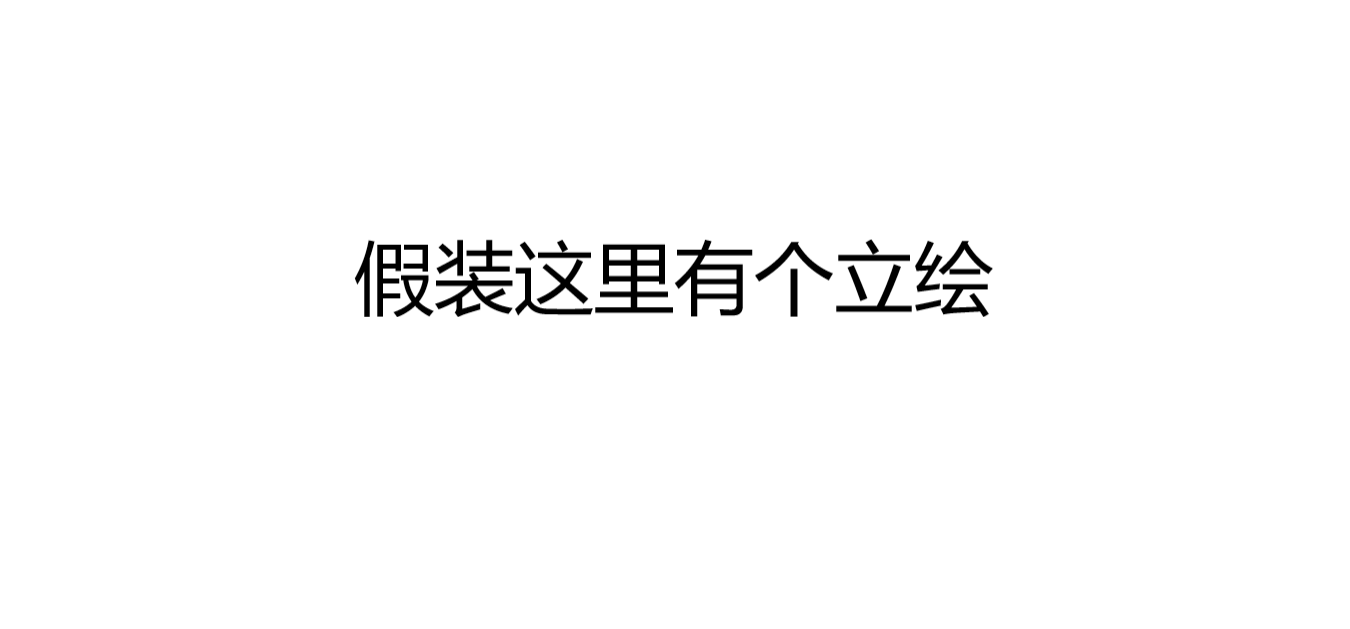
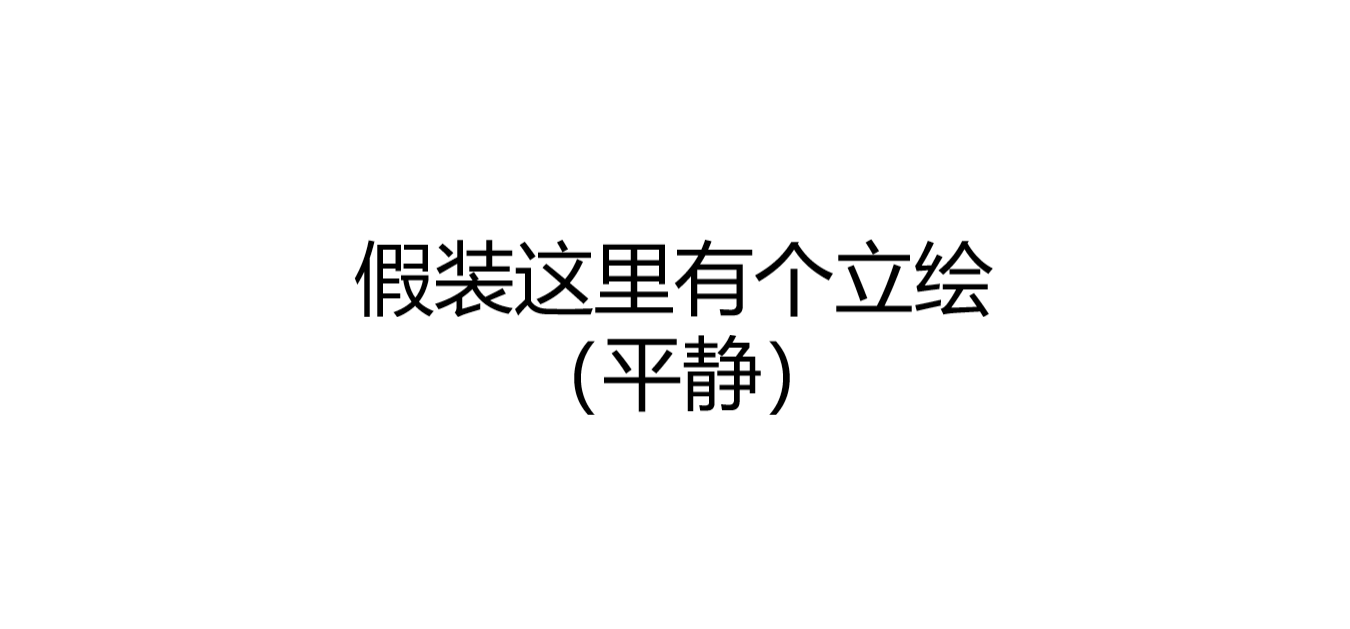
feat: 多表情

Changed region(s): [[0.4044, 0.5135, 0.5911, 0.6645]]

diff --git a/static/js/main.js b/static/js/main.js
@@ -242,15 +242,6 @@ async function sendMessage() {
                 addToHistory('assistant', remainingContent, characterName);
             }
 
-            // **获取提取的【】内容并处理**
-            const extractedContents = streamProcessor.getExtractedBracketContents();
-            if (extractedContents.length > 0) {
-                console.log('提取的【】内容:', extractedContents); // **这里可以看到提取的内容**
-                // 在这里可以对提取的内容进行进一步处理
-                // 例如：解析心情状态、系统指令等
-                handleExtractedBracketContents(extractedContents);
-            }
-
             // 隐藏继续提示
             hideContinuePrompt();
 
@@ -259,12 +250,18 @@ async function sendMessage() {
 
             // 重置暂停状态
             isPaused = false;
-            
+
             // 显示选项按钮（如果有的话）
             if (window.pendingOptions && window.pendingOptions.length > 0) {
                 showOptionButtons(window.pendingOptions);
                 window.pendingOptions = null; // 清空待处理的选项
             }
+        },
+        // 【】内容实时处理回调 - 检测到完整【】时立即并行调用
+        (bracketContent) => {
+            console.log('实时检测到【】内容:', bracketContent);
+            // 立即并行处理【】内容，不等待输出完成
+            handleExtractedBracketContents([bracketContent]);
         }
     );
 
@@ -276,7 +273,7 @@ async function sendMessage() {
 
     // 隐藏选项按钮
     hideOptionButtons();
-    
+
     // 清空输入框
     messageInput.value = '';
 
@@ -344,7 +341,7 @@ async function sendMessage() {
                                 // 将数据添加到流式处理器
                                 streamProcessor.addData(data.content);
                             }
-                            
+
                             // 处理选项数据
                             if (data.options) {
                                 // 存储选项数据，等待输出完成后显示
@@ -865,7 +862,7 @@ function updateCharacterImage() {
     if (currentCharacter && characterImage) {
         // 加载角色的所有图片
         loadCharacterImages(currentCharacter.id);
-        
+
         // 根据CALIB值调整位置
         if (characterContainer && typeof currentCharacter.calib !== 'undefined') {
             // 基准值为50%，根据CALIB值进行调整
@@ -1043,7 +1040,7 @@ async function selectCharacter(characterId) {
             updateCurrentMessage('assistant', currentCharacter.welcome);
 
         }
-        
+
         // 隐藏选项按钮
         hideOptionButtons();
 
@@ -1395,7 +1392,7 @@ let currentScreenClickHandler = null;
 function showOptionButtons(options) {
     // 清空现有选项
     optionButtons.innerHTML = '';
-    
+
     // 创建选项按钮
     options.forEach((option, index) => {
         const button = document.createElement('button');
@@ -1406,7 +1403,7 @@ function showOptionButtons(options) {
         });
         optionButtons.appendChild(button);
     });
-    
+
     // 显示选项容器
     optionButtonsContainer.classList.add('show');
 }
@@ -1421,10 +1418,10 @@ function hideOptionButtons() {
 function selectOption(option) {
     // 隐藏选项按钮
     hideOptionButtons();
-    
+
     // 将选项内容设置到输入框
     messageInput.value = option;
-    
+
     // 自动发送消息
     sendMessage();
 }
@@ -1434,11 +1431,11 @@ function selectOption(option) {
 // function handleExtractedBracketContents(contents) {
 //     // 这里是处理提取内容的地方，你可以在这里添加自定义逻辑
 //     console.log('处理提取的【】内容:', contents);
-    
+
 //     // 示例：解析心情状态
 //     contents.forEach((content, index) => {
 //         console.log(`第${index + 1}个【】内容:`, content);
-        
+
 //         // 如果内容是数字，可能是心情状态
 //         if (/^\d+$/.test(content.trim())) {
 //             const moodNumber = parseInt(content.trim());
@@ -1449,7 +1446,7 @@ function selectOption(option) {
 //             }
 //         }
 //     });
-    
+
 //     // 你可以在这里添加更多的处理逻辑
 //     // 例如：存储到全局变量、发送到服务器、更新UI等
 // }
@@ -1473,7 +1470,7 @@ function hideContinuePrompt() {
 
 
 function registrationShortcuts(config) {
-    document.addEventListener('keydown', e => { 
+    document.addEventListener('keydown', e => {
         if (e.key in config) {
             // For single-letter keys, require Alt to be pressed
             if (e.key.length === 1) {
@@ -1499,13 +1496,16 @@ registrationShortcuts({
 
 // 处理提取的【】内容
 function handleExtractedBracketContents(extractedContents) {
+    // 确保 extractedContents 是数组
+    const contents = Array.isArray(extractedContents) ? extractedContents : [extractedContents];
+
     // 处理每个提取的内容
-    for (const content of extractedContents) {
+    for (const content of contents) {
         console.log('处理【】内容:', content);
-        
+
         // 尝试解析为数字
         const imageNumber = parseInt(content.trim());
-        
+
         if (!isNaN(imageNumber) && imageNumber > 0) {
             // 如果是有效数字，切换到对应图片
             switchCharacterImage(imageNumber);
@@ -1523,10 +1523,10 @@ function switchCharacterImage(imageNumber) {
         console.log('没有当前角色，无法切换图片');
         return;
     }
-    
+
     // 查找对应编号的图片
     const targetImage = currentCharacterImages.find(img => img.number === imageNumber);
-    
+
     if (targetImage) {
         console.log(`切换到图片 ${imageNumber}: ${targetImage.url}`);
         const characterImage = document.getElementById('characterImage');
@@ -1554,17 +1554,17 @@ async function loadCharacterImages(characterId) {
         console.log('没有角色ID，无法加载图片');
         return;
     }
-    
+
     try {
         console.log(`加载角色 ${characterId} 的图片列表`);
-        
+
         const response = await fetch(`/api/characters/${characterId}/images`);
         const data = await response.json();
-        
+
         if (data.success) {
             currentCharacterImages = data.images;
             console.log(`成功加载 ${currentCharacterImages.length} 张图片:`, currentCharacterImages);
-            
+
             // 设置默认图片
             const characterImage = document.getElementById('characterImage');
             if (characterImage && data.default_image) {

diff --git a/static/js/stream_processor.js b/static/js/stream_processor.js
@@ -18,6 +18,7 @@ class StreamProcessor {
         this.onCharacterCallback = null;
         this.onPauseCallback = null;
         this.onCompleteCallback = null;
+        this.onBracketContentCallback = null; // 新增：【】内容实时处理回调
         this.processingTimeout = null;
         
         // 【】内容处理相关状态
@@ -29,10 +30,11 @@ class StreamProcessor {
     /**
      * 设置回调函数
      */
-    setCallbacks(onCharacter, onPause, onComplete) {
+    setCallbacks(onCharacter, onPause, onComplete, onBracketContent = null) {
         this.onCharacterCallback = onCharacter;
         this.onPauseCallback = onPause;
         this.onCompleteCallback = onComplete;
+        this.onBracketContentCallback = onBracketContent; // 新增：【】内容实时处理回调
     }
 
     /**
@@ -107,6 +109,18 @@ class StreamProcessor {
             // 检测到】，结束收集，将内容存储到变量中
             this.isInsideBrackets = false;
             this.extractedBracketContents.push(this.bracketContent); // **这里是提取【】内容并存储的位置**
+            
+            // **立即处理【】内容 - 并行调用**
+            if (this.onBracketContentCallback && this.bracketContent.trim()) {
+                console.log('流式处理器检测到完整【】内容:', this.bracketContent.trim());
+                // 保存内容到局部变量，避免异步调用时被重置
+                const contentToProcess = this.bracketContent.trim();
+                // 使用 setTimeout 实现并行调用，不阻塞主流程
+                setTimeout(() => {
+                    this.onBracketContentCallback(contentToProcess);
+                }, 0);
+            }
+            
             this.bracketContent = '';
             // 不输出】字符，继续处理下一个字符
         } else if (this.isInsideBrackets) {
@@ -196,6 +210,16 @@ class StreamProcessor {
             } else if (char === '】' && this.isInsideBrackets) {
                 this.isInsideBrackets = false;
                 this.extractedBracketContents.push(this.bracketContent); // **跳过时也提取【】内容**
+                
+                // **跳过时也立即处理【】内容**
+                if (this.onBracketContentCallback && this.bracketContent.trim()) {
+                    console.log('跳过时检测到完整【】内容:', this.bracketContent.trim());
+                    // 保存内容到局部变量
+                    const contentToProcess = this.bracketContent.trim();
+                    // 立即调用，因为跳过时不需要延迟
+                    this.onBracketContentCallback(contentToProcess);
+                }
+                
                 this.bracketContent = '';
             } else if (this.isInsideBrackets) {
                 this.bracketContent += char;

diff --git a/services/config_service.py b/services/config_service.py
@@ -104,7 +104,7 @@ class ConfigService:
                 # 构建心情字符串，格式：1.心情1 2.心情2 3.心情3 4.心情4
                 mood_str = " ".join([f"{i+1}.{mood}" for i, mood in enumerate(character_module.MOODS)])
                 # 替换通用提示词中的心情部分
-                general_prompt = general_prompt.replace("1.平静 2.兴奋 3.愤怒 4.失落", mood_str)
+                general_prompt = general_prompt.replace("<[MOODS]>", mood_str)
             
             return f"{general_prompt}\n\n{character_config['prompt']}"
         
@@ -114,7 +114,7 @@ class ConfigService:
             character_module = characters.get_character_module(self.current_character_id)
             if hasattr(character_module, 'MOODS') and character_module.MOODS:
                 mood_str = " ".join([f"{i+1}.{mood}" for i, mood in enumerate(character_module.MOODS)])
-                prompt = prompt.replace("1.平静 2.兴奋 3.愤怒 4.失落", mood_str)
+                prompt = prompt.replace("<[MOODS]>", mood_str)
         
         return prompt
     

diff --git a/config.py b/config.py
@@ -49,7 +49,7 @@ IMAGE_CONFIG = {
 
 # 通用提示词配置
 SYSTEM_PROMPTS = {
-    "default": """你需要用1到6句话回复用户，禁止换行，禁止使用markdown。每句话的开头需要用【】加上当前的心情，且必须是其中之一，**只写序号**：1.平静 2.兴奋 3.愤怒 4.失落
+    "default": """你需要用1到6句话回复用户，禁止换行，禁止使用markdown。每句话的开头如果可以用【】加上当前的表情，且必须是其中之一，避免高频变换表情，**只写序号**：<[MOODS]>
 """,
 }
 

diff --git a/characters/Silver_Wolf.py b/characters/Silver_Wolf.py
@@ -11,8 +11,10 @@ CHARACTER_NAME_EN = "Silver_Wolf"
 CHARACTER_IMAGE = "static/images/Silver_Wolf"  # 角色立绘目录路径
 CALIB = 30   #显示位置的校准值（负值向上移动，正值向下移动）
 CHARACTER_COLOR = "#9c27b0"  # 角色名称颜色
+#角色情绪，需要与立绘对应
+#⚠即使没有相应的立绘也建议填写，否则可能会影响AI生成的质量
 MOODS=[
-    "平静","兴奋","愤怒","失落"
+    "平静","兴奋","愤怒","委屈","惊讶"
 ]
 
 #是否启用语音（未实现）

diff --git a/characters/lingyin.py b/characters/lingyin.py
@@ -14,7 +14,7 @@ CHARACTER_COLOR = "#00ffff"  # 角色名称颜色
 
 # 角色心情
 MOODS = [
-    "开心", "兴奋", "生气", "难过"
+    "平静", "兴奋", "生气", "难过","疑惑"
 ]
 
 #是否启用语音（未实现）

diff --git a/README.md b/README.md
@@ -21,8 +21,8 @@
 - 场景切换（让AI切换场景或生成新场景）
 - 故事模式（根据大纲推动故事发展，区别于“闲聊模式”）
 - 角色的表情/动作（在做了在做了）
+- 角色语音（在做了，但是代码可能要重构亿下）
 - ~~记忆权重，记忆遗忘~~（意义不大，暂不考虑）
-- ~~角色语音~~（硬件受限，等我换个有独显的电脑再说）
 - 很多的bug
 
 
